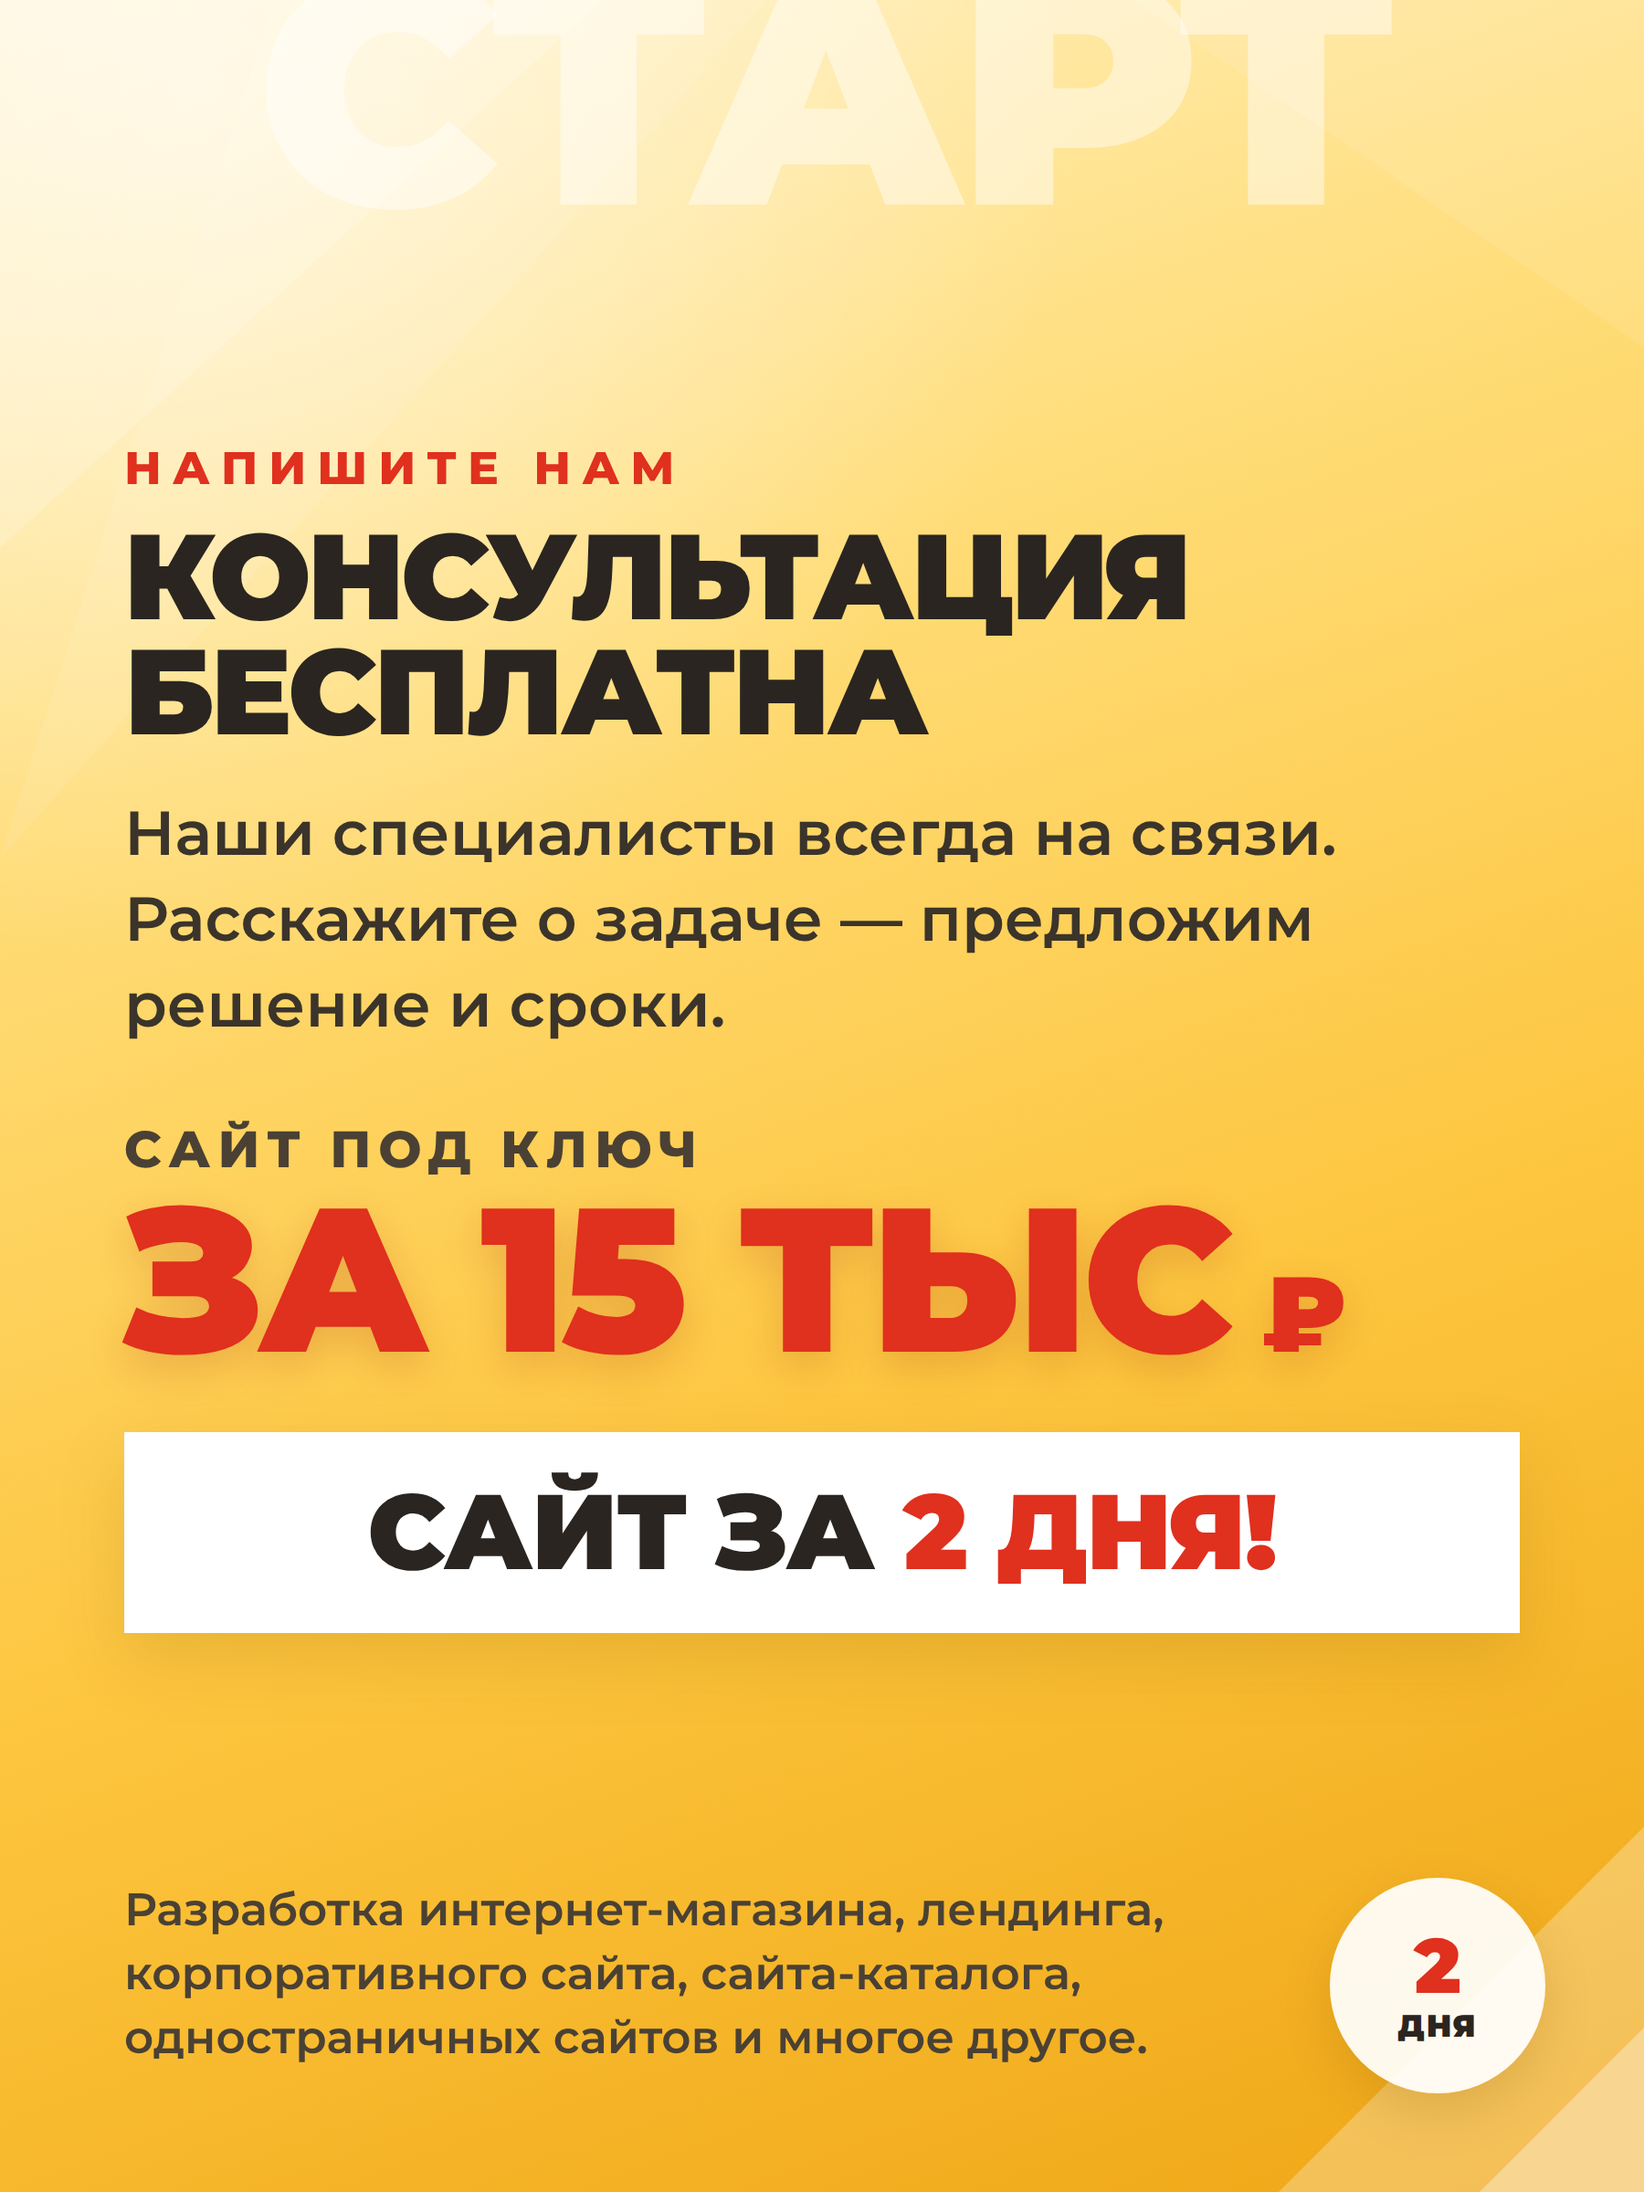
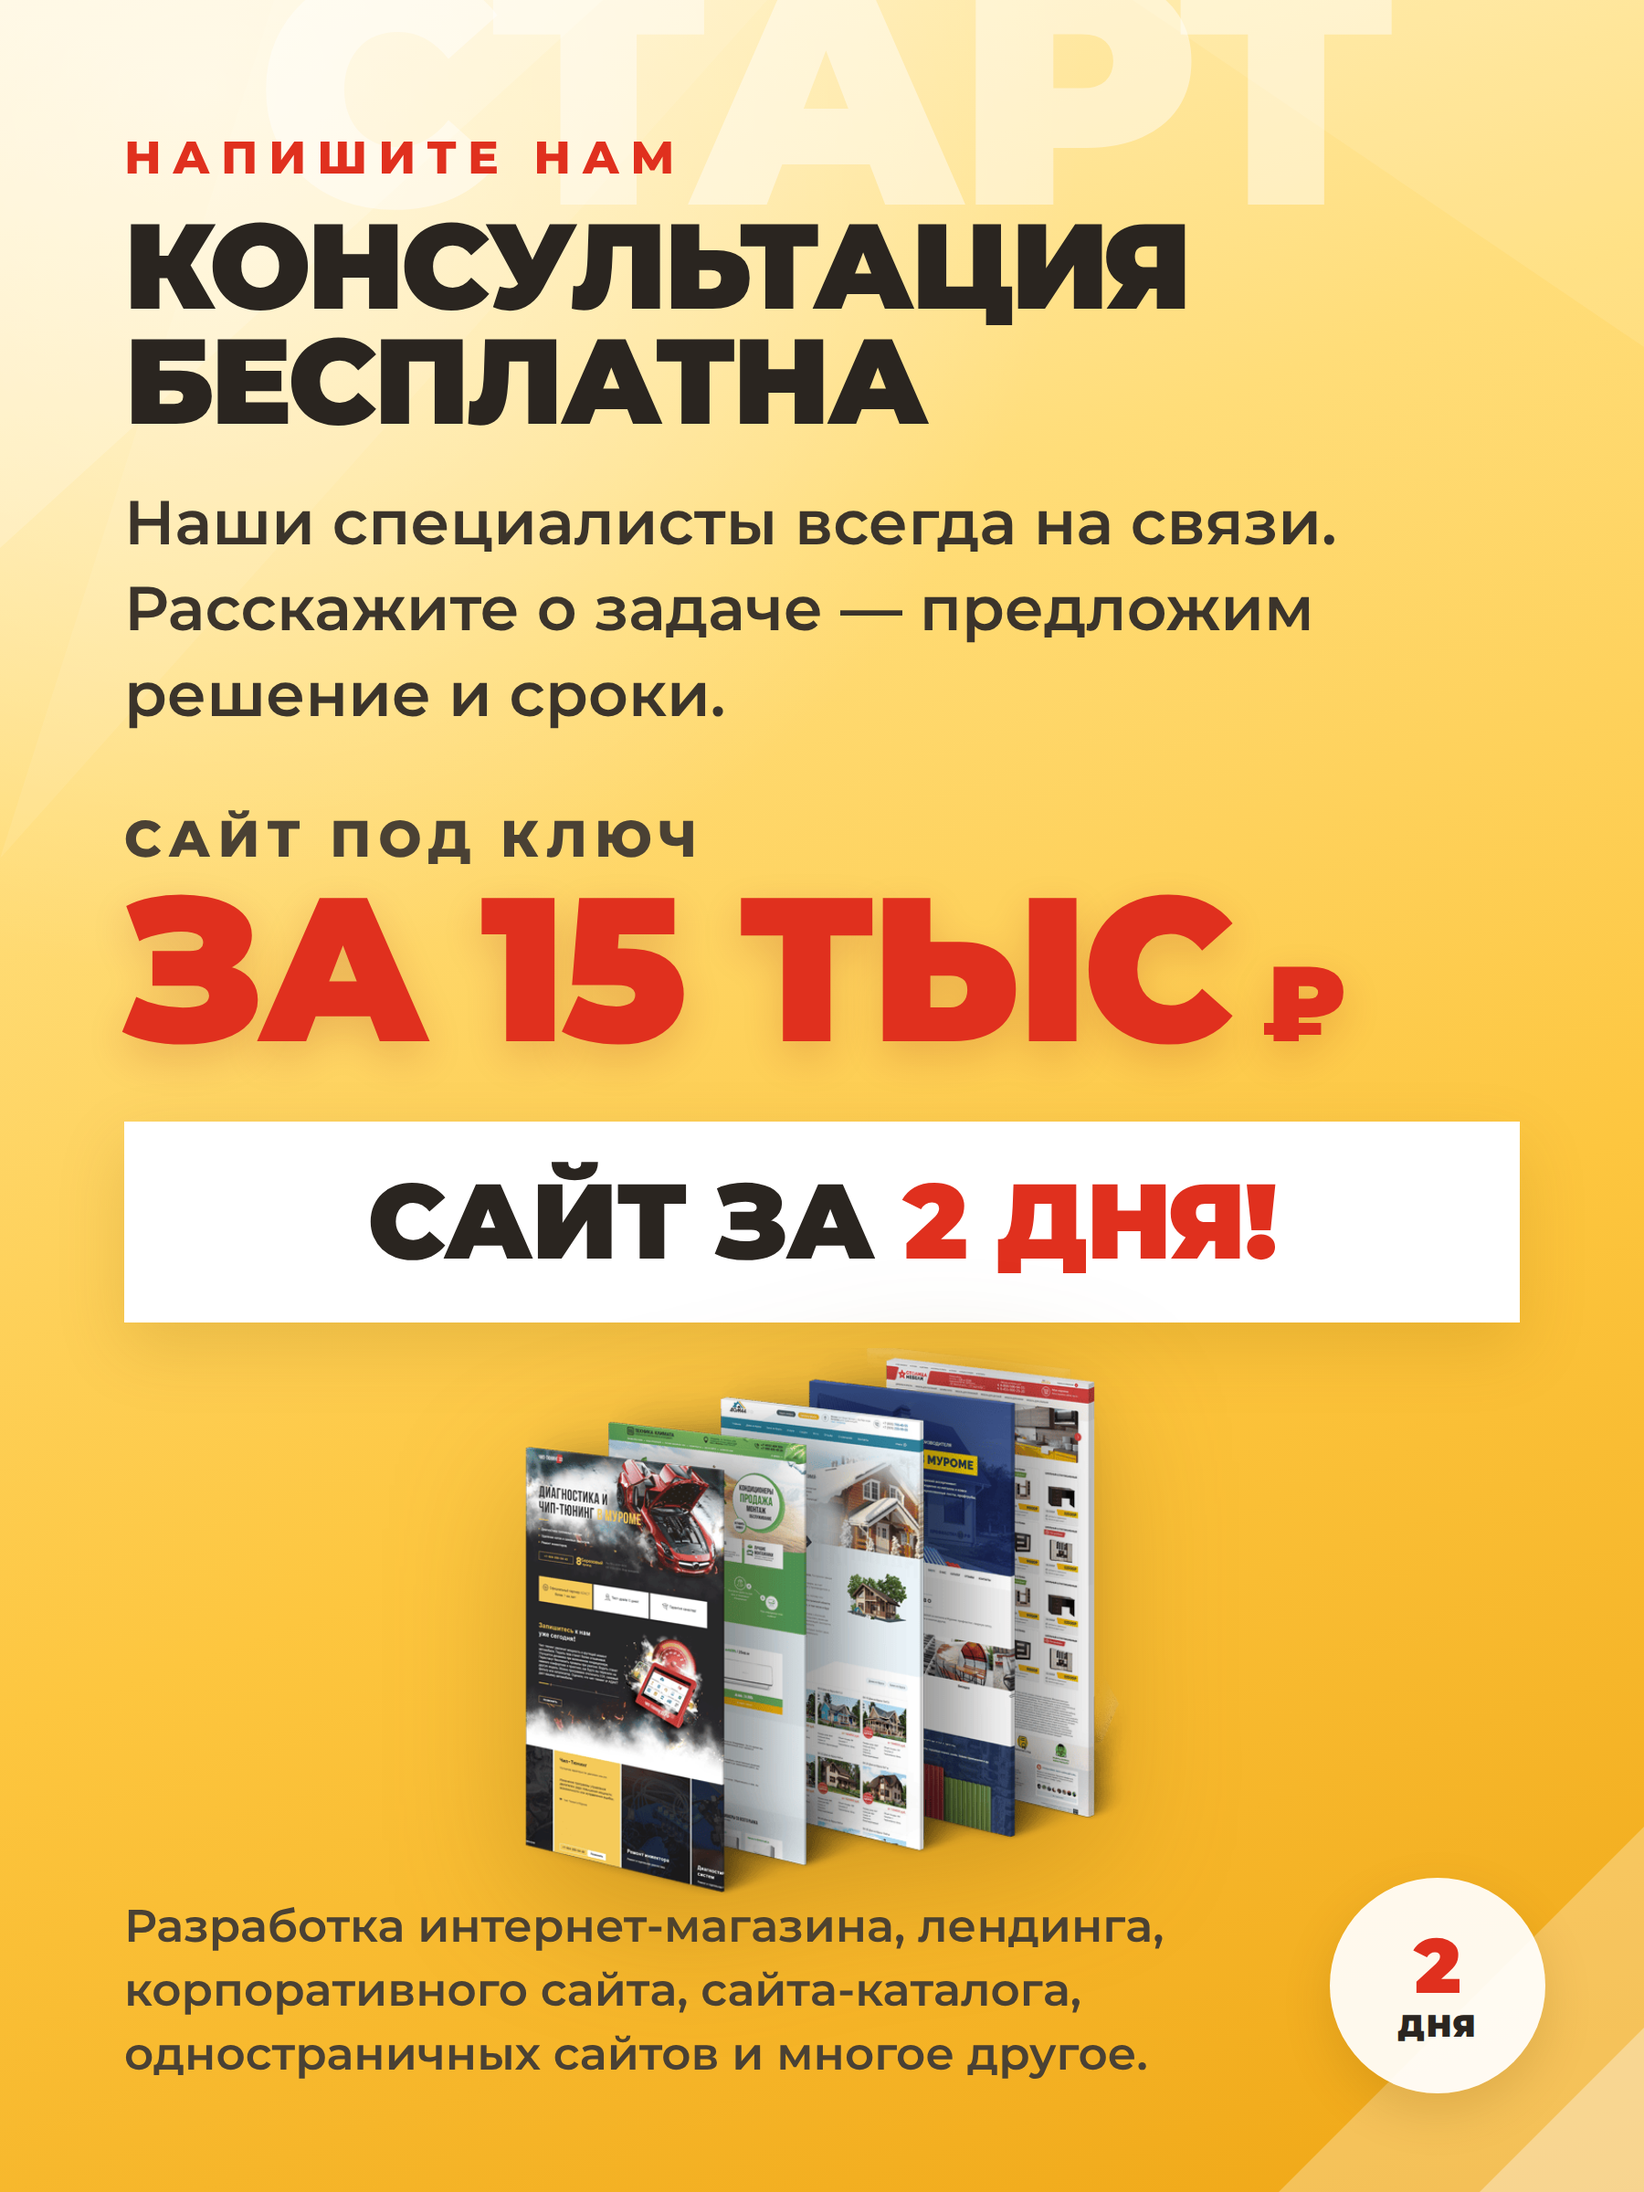
Use real portfolio screenshots on the cover and closing slide
Replaces the wireframe browser mock on the cover with the fan of
finished-site screenshots and repeats it smaller above the footer of the
closing slide, so both price slides show actual work.

Claude-Session: https://claude.ai/code/session_017LcbuXHN7h3FiT7QLFYxQe

diff --git a/avito/posters.html b/avito/posters.html
@@ -18,18 +18,9 @@
   <svg class="corner" viewBox="0 0 320 320"><polygon points="320,120 320,320 120,320" opacity=".5"/><polygon points="320,230 320,320 230,320" opacity=".9"/></svg>
 
   <div class="content">
-    <div style="height:96px"></div>
+    <div style="height:78px"></div>
 
-    <div class="win" style="margin:0 26px">
-      <div class="bar"><i class="dot r"></i><i class="dot"></i><i class="dot"></i></div>
-      <div class="body">
-        <div class="sk t"></div>
-        <div class="sk w1"></div>
-        <div class="sk w2"></div>
-        <div class="sk btn"></div>
-        <div class="thumbs"><div></div><div></div><div></div></div>
-      </div>
-    </div>
+    <img class="shots" src="assets/portfolio-sites.png" alt="Примеры готовых сайтов" style="height:430px">
 
     <div style="margin-top:38px;text-align:center">
       <div style="font-size:30px;font-weight:800;letter-spacing:5px;text-transform:uppercase;color:#4A4134">Сайт под ключ</div>
@@ -304,7 +295,7 @@
   <svg class="corner" viewBox="0 0 320 320"><polygon points="320,120 320,320 120,320" opacity=".5"/><polygon points="320,230 320,320 230,320" opacity=".9"/></svg>
 
   <div class="content">
-    <div style="height:170px"></div>
+    <div style="height:118px"></div>
     <div class="eyebrow">Напишите нам</div>
     <h1 class="sm" style="margin-top:12px">Консультация<br>бесплатна</h1>
     <p class="lead" style="margin-top:22px;max-width:720px">Наши специалисты всегда на связи. Расскажите о задаче — предложим решение и сроки.</p>
@@ -317,6 +308,8 @@
     <div class="band" style="margin-top:34px">
       <div class="t" style="font-size:58px">САЙТ ЗА <span class="hl">2 ДНЯ!</span></div>
     </div>
+
+    <img class="shots" src="assets/portfolio-sites.png" alt="Примеры готовых сайтов" style="height:300px;margin-top:14px">
 
     <div class="spacer"></div>
     <p class="foot">Разработка интернет-магазина, лендинга, корпоративного сайта, сайта-каталога, одностраничных сайтов и многое другое.</p>

diff --git a/avito/styles.css b/avito/styles.css
@@ -223,6 +223,13 @@ p.small { font-size: 26px; line-height: 1.45; }
   color: #FFD764;
 }
 
+/* веер скриншотов готовых работ */
+.shots {
+  display: block;
+  margin: 0 auto;
+  filter: drop-shadow(0 20px 36px rgba(120,80,0,.3));
+}
+
 /* иллюстрация «окно браузера» */
 .win {
   background: #fff;

diff --git a/avito/README.md b/avito/README.md
@@ -6,7 +6,7 @@
 
 | № | Файл | О чём |
 |---|------|-------|
-| 01 | `images/01-oblozhka-15-tys.png` | Обложка: **САЙТ ЗА 2 ДНЯ!** и цена **ЗА 15 ТЫС ₽** крупными красными буквами |
+| 01 | `images/01-oblozhka-15-tys.png` | Обложка: примеры готовых работ, **САЙТ ЗА 2 ДНЯ!** и цена **ЗА 15 ТЫС ₽** крупными красными буквами |
 | 02 | `images/02-uslugi.png` | Услуги: интернет-магазин, лендинг, корпоративный сайт, сайт-каталог, одностраничные сайты |
 | 03 | `images/03-citata-bryus-li.png` | Цитата Брюса Ли на меловой доске |
 | 04 | `images/04-zadachi-sayta.png` | Что нужно для создания сайта: задачи сайта |
@@ -15,7 +15,7 @@
 | 07 | `images/07-vy-ekspert.png` | «В вашем бизнесе лучше всего разбираетесь только вы» |
 | 08 | `images/08-gotovye-sayty.png` | Готовые сайты: уникальный дизайн, установка 2 дня |
 | 09 | `images/09-etapy-raboty.png` | Этапы работы — четыре шага до запуска |
-| 10 | `images/10-konsultaciya-besplatna.png` | Финал: консультация бесплатна + цена |
+| 10 | `images/10-konsultaciya-besplatna.png` | Финал: консультация бесплатна, цена и примеры работ |
 
 Превью всех макетов: откройте `index.html` в браузере.
 
@@ -53,6 +53,10 @@ node avito/render.mjs    # пересобрать PNG в avito/images/
 ```
 
 Шрифты: Montserrat, Playfair Display, Bad Script (Google Fonts, кириллица). Они должны быть установлены в системе — макеты рендерятся системными шрифтами.
+
+### Картинка с примерами работ
+`assets/portfolio-sites.png` — веер скриншотов готовых сайтов, используется на слайдах 01 и 10.
+Чтобы показать другие работы, замените этот файл (PNG с прозрачным фоном) и пересоберите макеты.
 
 ### Что стоит подставить своё
 - Цену «15 тыс» — в `posters.html` (слайды 01 и 10).
